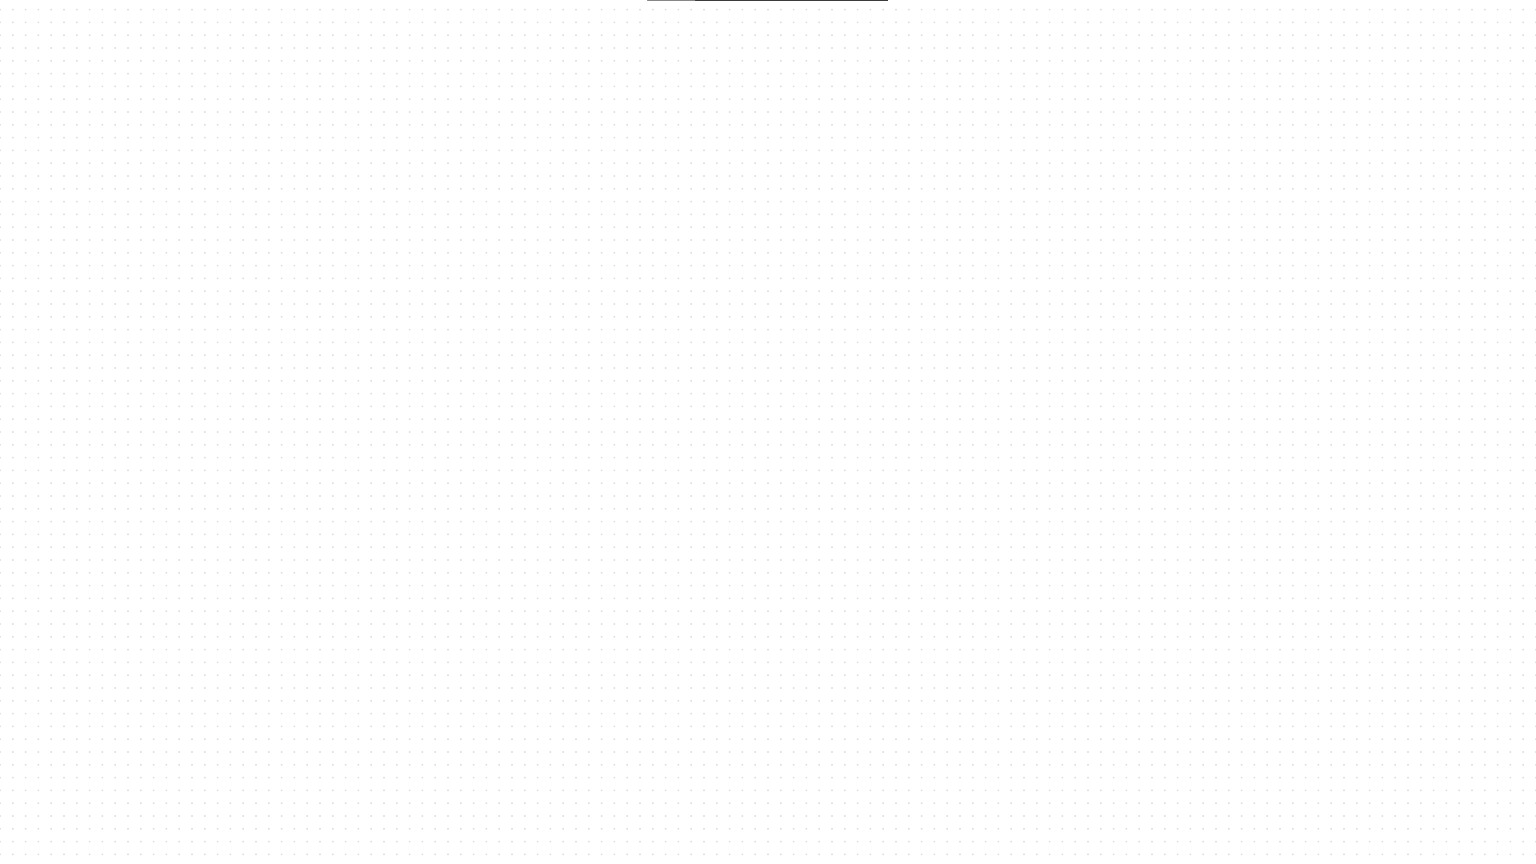
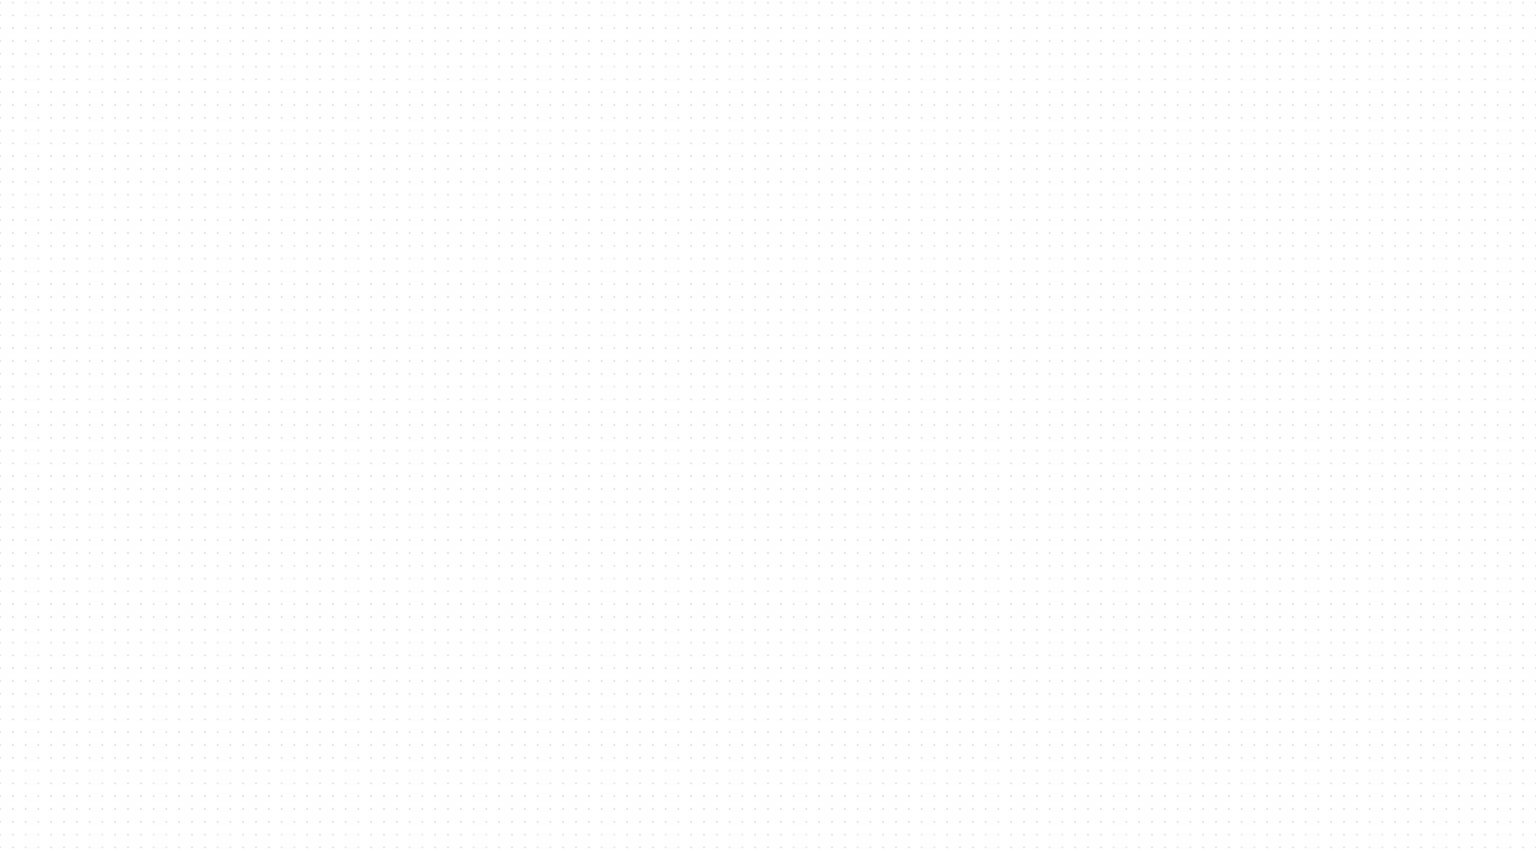
bg img correction on mobile

diff --git a/app/page.tsx b/app/page.tsx
@@ -3,12 +3,10 @@ import Link from "next/link";
 
 import pyncLogo from "@/public/pync_logo.png";
 import whatsAppIcon from "@/public/social-whatsapp-circle-512.png";
-import background from "@/public/background.png";
 
 
 export default function Home() {
   return ( <>
-  <Image src={background} alt="background" className="absolute h-full top-0 left-0 -z-50 bg-cover"></Image>
     <div className="">
       <div className="flex flex-col justify-center sm:justify-start gap-7 p-[5%] lg:p-[5%] lg:ml-[5%]">
         <Image src={pyncLogo} alt="Pync Logo" width={225} className="mx-auto sm:mx-0" />

diff --git a/app/layout.tsx b/app/layout.tsx
@@ -16,7 +16,7 @@ export default function RootLayout({
   children: React.ReactNode;
 }>) {
   return (
-    <html lang="en">
+    <html lang="en" className="background-image">
       <head>
         <link rel="preconnect" href="https://fonts.googleapis.com" />
         <link rel="preconnect" href="https://fonts.gstatic.com" crossOrigin="" />
